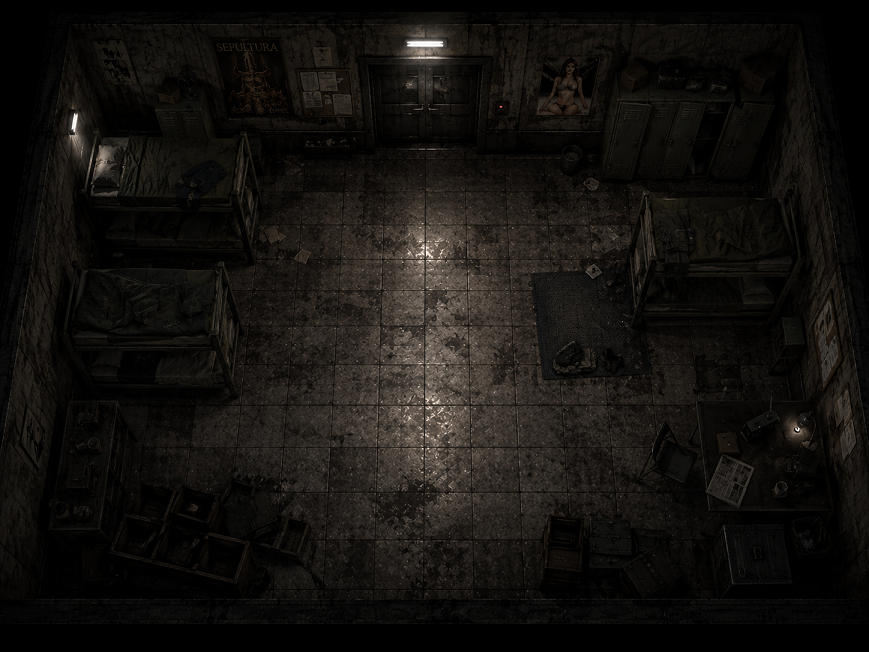
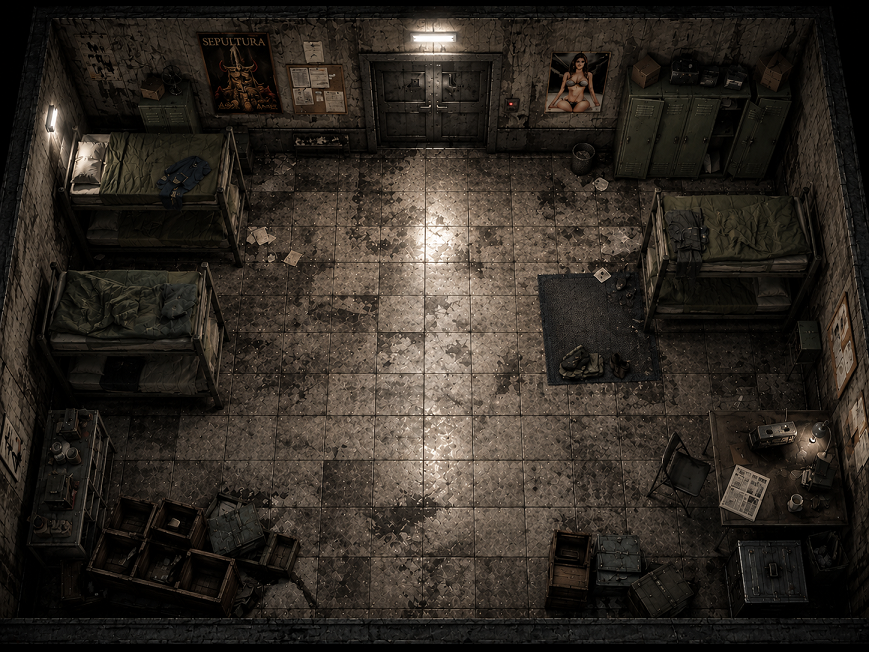
screen5

diff --git a/src/rooms.js b/src/rooms.js
@@ -107,31 +107,35 @@ export const ROOMS = {
     name: "Sala segura",
     zone: "building",
     backgroundImage: { key: "bg_safe", path: "src/background/safe.png" },
-    // showWallVisuals: false,
+    showWallVisuals: false,
     walls: [
-      { x: 0, y: 0, w: 800, h: 42 },
+      { x: 0, y: 0, w: 800, h: 80 },
       { x: 0, y: 558, w: 800, h: 42 },
-      { x: 0, y: 0, w: 42, h: 600 },
+      { x: 0, y: 0, w: 80, h: 600 },
       { x: 758, y: 0, w: 42, h: 600 },
-      { x: 96, y: 120, w: 190, h: 90 },
-      { x: 512, y: 120, w: 190, h: 90 },
-      { x: 110, y: 405, w: 580, h: 64 },
+      { x: 66, y: 120, w: 140, h: 90 },
+      { x: 66, y: 250, w: 140, h: 90 },
+      { x: 612, y: 160, w: 190, h: 90 },
+      { x: 80, y: 405, w: 180, h: 164 },
+      { x: 680, y: 380, w: 80, h: 200 },
+      { x: 580, y: 380, w: 80, h: 100 },
+      { x: 480, y: 480, w: 80, h: 100 },
     ],
     doors: [
-      { id: "safe_to_entry", x: 360, y: 18, w: 80, h: 42, to: "building_entry", spawn: "from_safe", label: "Entrada" },
+      { id: "safe_to_entry", x: 350, y: 80, w: 120, h: 42, to: "building_entry", spawn: "from_safe", label: "Entrada" },
     ],
     spawns: {
       from_entry: { x: 400, y: 92, angle: 90 },
     },
     props: [],
     items: [
-      { id: "medikit_safe_01", type: "medikit", name: "Medikit", x: 400, y: 310, color: 0x5fd178, heal: 35 },
+      { id: "medikit_safe_01", type: "medikit", name: "Medikit", x: 180, y: 280, color: 0x5fd178, heal: 35 },
       {
         id: "note_switch_puzzle_01",
         type: "note",
         name: "Nota de paneles",
-        x: 400,
-        y: 224,
+        x: 700,
+        y: 400,
         color: 0xf0e6cf,
         text: "El cierre sellado usa tres paneles. El patron quedo marcado como estado de luces: verde, rojo, verde.",
       },
